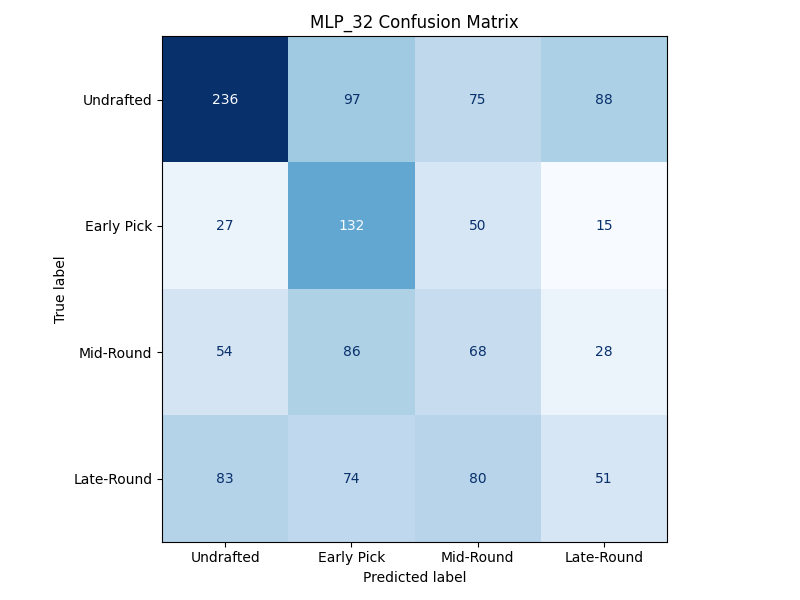
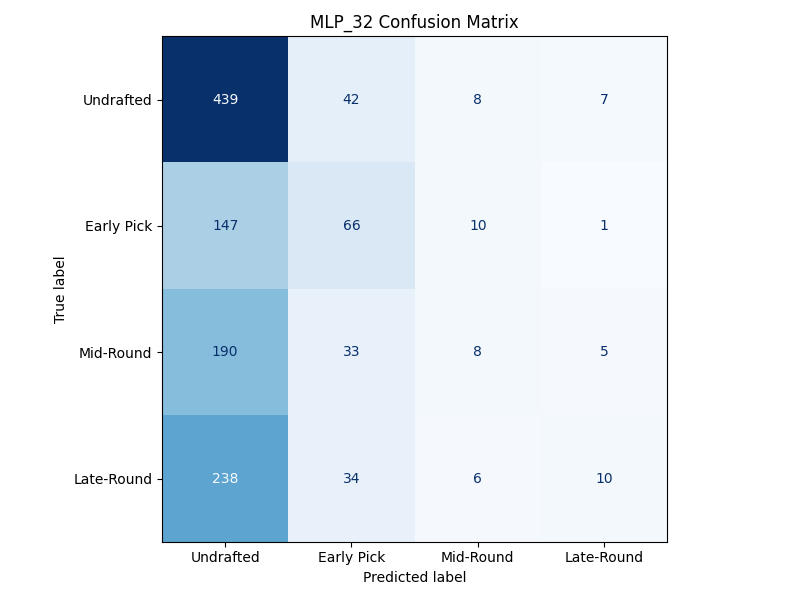
Make sure base model is not using new model changes

diff --git a/src/models.py b/src/models.py
@@ -144,23 +144,20 @@ def run_mlp(
         print(f" TESTING ARCHITECTURE: {arch}")
         print("!" * 50)
 
-        model = MLP(input_dim, arch, num_classes, dropout_prob=0.2).to(device)
+        model = MLP(input_dim, arch, num_classes, dropout_prob=0.0).to(device)
 
         # Give higher weight to classes with lower support
-        weights = torch.tensor([1.0, 2.2, 2.1, 1.7]).to(device)
-        criterion = nn.CrossEntropyLoss(weight=weights)
+        criterion = nn.CrossEntropyLoss()
         optimizer = optim.Adam(model.parameters(), lr=0.001)
-        # scheduler = optim.lr_scheduler.StepLR(optimizer, step_size=300, gamma=0.1)
 
         # Training Loop
         model.train()
-        for epoch in range(250): 
+        for epoch in range(150):  
             optimizer.zero_grad()
             outputs = model(X_train)
             loss = criterion(outputs, y_train)
             loss.backward()
             optimizer.step()
-            # scheduler.step()
 
         # Evaluation Mode
         model.eval()
